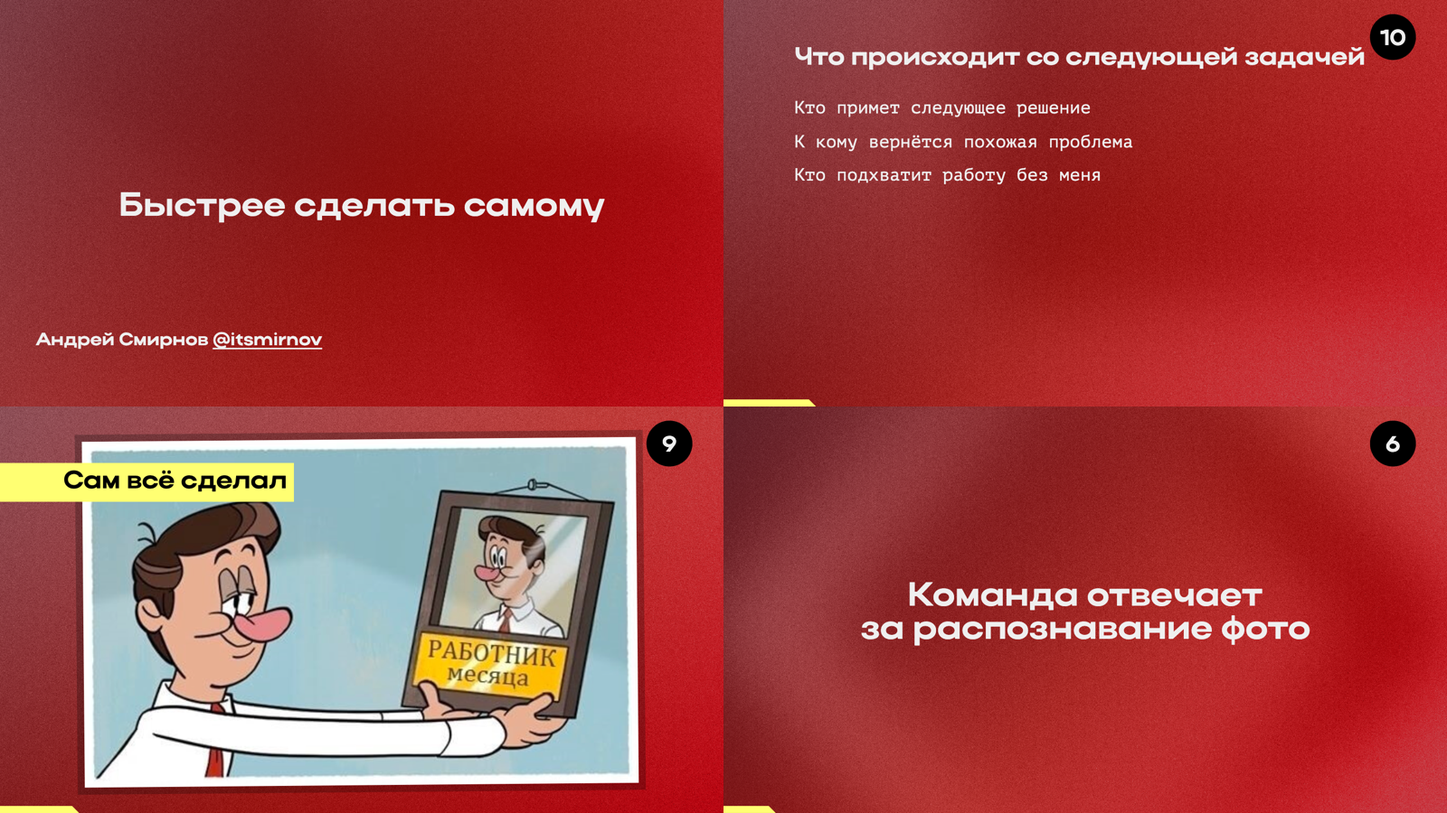
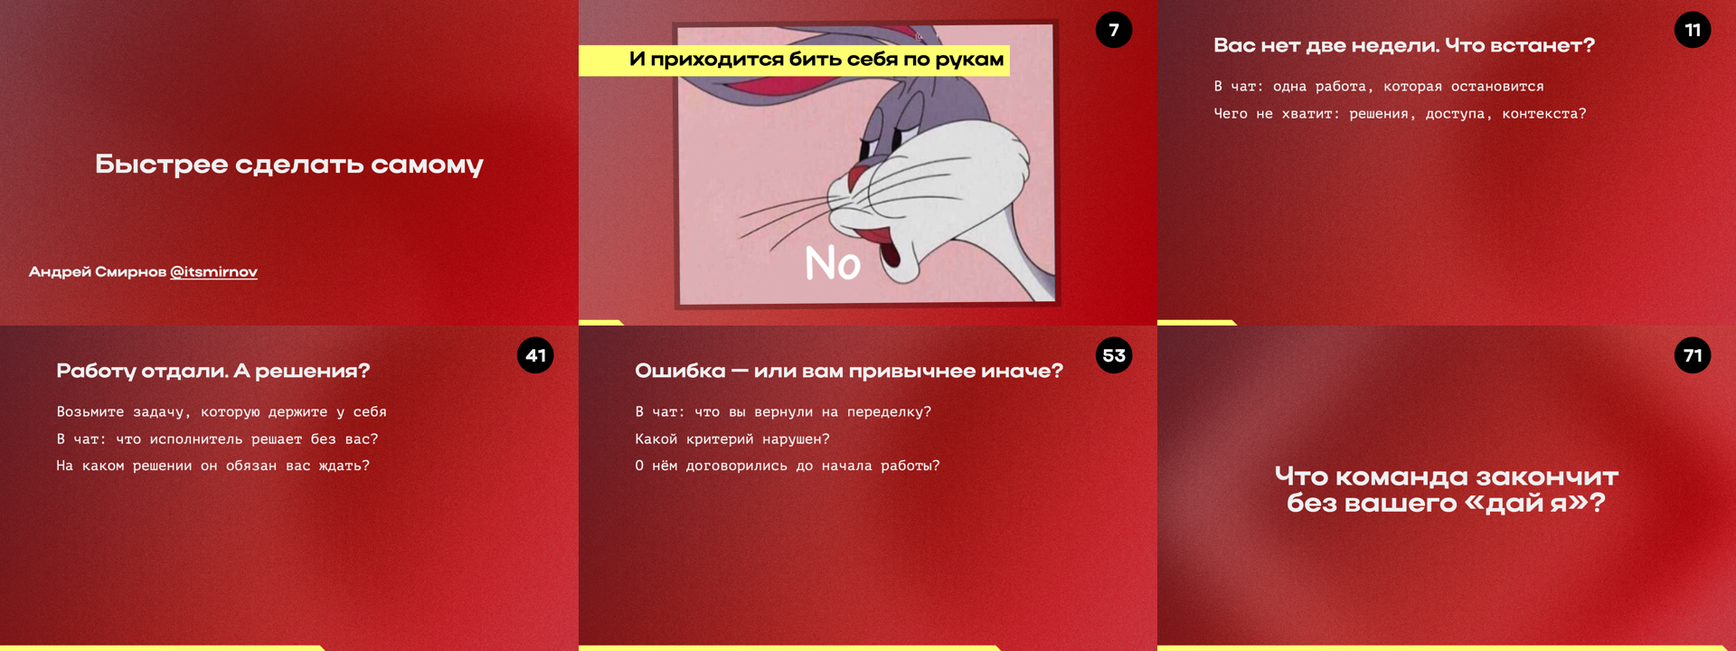
feat: усилить доклад и добавить работу с чатом

diff --git a/index.html b/index.html
@@ -1,5 +1,5 @@
-<!doctype html><html lang="ru"><head><meta charset="utf-8"><meta name="viewport" content="width=device-width, initial-scale=1"><title>Быстрее сделать самому · Андрей Смирнов</title><meta name="author" content="Андрей Смирнов"><meta name="description" content="Доклад Андрея Смирнова о делегировании, самостоятельности команды, ранней проверке и приёмке результата. Стратоплан, 2026."><link rel="canonical" href="https://sandark7.github.io/BCM26/"><link rel="stylesheet" href="shower/themes/ribbon/styles/styles.css"><link rel="stylesheet" href="theme.css"><link rel="stylesheet" href="slides.css"><link rel="stylesheet" href="delegation.css"></head><body class="shower list"><header class="caption"><h1>Быстрее сделать самому</h1><p>Андрей Смирнов · Стратоплан · 40 минут<br>Нажми на слайд, чтобы начать. → / пробел — следующий шаг; ← — назад; Esc — обзор.</p></header><section id="cover" class="slide label-header clear bgt" data-layout="shout" data-seconds="20" aria-label="Быстрее сделать самому"><h2 class="shout shrink">Быстрее сделать самому</h2><p class="end-link" style="left:5%;bottom:8%">Андрей Смирнов <a href="https://t.me/itsmirnov">@itsmirnov</a></p></section>
-<section id="about" class="slide label-header rbn bgi" data-layout="image" data-seconds="25" aria-label="Кто я?"><h2>Кто я?</h2>
+<!doctype html><html lang="ru"><head><meta charset="utf-8"><meta name="viewport" content="width=device-width, initial-scale=1"><title>Быстрее сделать самому · Андрей Смирнов</title><meta name="author" content="Андрей Смирнов"><meta name="description" content="Доклад Андрея Смирнова о делегировании, самостоятельности команды, ранней проверке и приёмке результата. Стратоплан, 2026."><link rel="canonical" href="https://sandark7.github.io/BCM26/"><link rel="stylesheet" href="shower/themes/ribbon/styles/styles.css"><link rel="stylesheet" href="theme.css"><link rel="stylesheet" href="slides.css"><link rel="stylesheet" href="delegation.css"></head><body class="shower list"><header class="caption"><h1>Быстрее сделать самому</h1><p>Андрей Смирнов · Стратоплан · 40 минут<br>Нажми на слайд, чтобы начать. → / пробел — следующий шаг; ← — назад; Esc — обзор.</p></header><section id="cover" class="slide label-header clear bgt" data-layout="shout" data-seconds="30" aria-label="Быстрее сделать самому"><h2 class="shout shrink">Быстрее сделать самому</h2><p class="end-link" style="left:5%;bottom:8%">Андрей Смирнов <a href="https://t.me/itsmirnov">@itsmirnov</a></p></section>
+<section id="about" class="slide label-header rbn bgi" data-layout="image" data-seconds="20" aria-label="Кто я?"><h2>Кто я?</h2>
     <img src="pictures/rebranding.png" class="cover h bordered">
     <object data="pictures/logo-magnit.svg" type="image/svg+xml" class="next"
       style="position: absolute;top: 120px;left: 635px;width: 90px; height: 90px; background-color: black;"></object>
@@ -10,67 +10,69 @@
 <section id="sometimes-faster" class="slide label-header rbn bgi" data-layout="image" data-seconds="30" aria-label="Быстрее?"><h2>Быстрее?</h2><img src="pictures/DE26__kachok.jpeg" class="cover h bordered" alt="Быстрее?"></section>
 <section id="ai-accelerator" class="slide label-header rbn bgi" data-layout="image" data-seconds="35" aria-label="А теперь у меня ещё и нейросеть"><h2>А теперь у меня ещё и нейросеть</h2><img src="pictures/PSC25__magic.gif" class="cover h bordered" alt="А теперь у меня ещё и нейросеть"></section>
 <section id="recognition-team" class="slide label-header rbn bgt" data-layout="shout" data-seconds="35" aria-label="Команда отвечает за распознавание фото"><h2 class="shout shrink">Команда отвечает<br>за распознавание фото</h2></section>
-<section id="hands-off" class="slide label-header rbn bgi" data-layout="image" data-seconds="35" aria-label="И приходится бить себя по рукам"><h2>И приходится бить себя по рукам</h2><img src="pictures/SM25__no-2.jpeg" class="cover h bordered" alt="И приходится бить себя по рукам"></section>
-<section id="correction-window" class="slide label-header rbn bgt" data-layout="shout" data-seconds="35" aria-label="Поправить ещё успеем"><h2 class="shout shrink">Поправить ещё успеем</h2></section>
+<section id="hands-off" class="slide label-header rbn bgi" data-layout="image" data-seconds="30" aria-label="И приходится бить себя по рукам"><h2>И приходится бить себя по рукам</h2><img src="pictures/SM25__no-2.jpeg" class="cover h bordered" alt="И приходится бить себя по рукам"></section>
+<section id="correction-window" class="slide label-header rbn bgt" data-layout="shout" data-seconds="35" aria-label="Если ещё можно исправить, зачем забирать?"><h2 class="shout shrink">Если ещё можно исправить,<br>зачем забирать?</h2></section>
 <section id="long-game-meme" class="slide label-header rbn bgi" data-layout="image" data-seconds="8" aria-label="Сам всё сделал"><h2>Сам всё сделал</h2><img src="pictures/GMS26__month.jpg" class="cover h bordered" alt="Сам всё сделал"></section>
-<section id="long-game" class="slide label-header rbn bg bgl" data-layout="list" data-seconds="32" aria-label="Что происходит со следующей задачей"><h2>Что происходит со следующей задачей</h2><ul class="nosign"><li>Кто примет следующее решение</li><li class="next">К кому вернётся похожая проблема</li><li class="next">Кто подхватит работу без меня</li></ul></section>
+<section id="long-game" class="slide label-header rbn bg bgl" data-layout="list" data-seconds="22" aria-label="Закрыли задачу. Всё снова на вас"><h2>Закрыли задачу. Всё снова на вас</h2><ul class="nosign"><li>Следующее решение снова за вами</li><li class="next">Похожая проблема снова у вас</li><li class="next">Заменить вас по-прежнему некому</li></ul></section>
+<section id="absence-check" class="slide label-header rbn bg bgl" data-layout="list" data-seconds="90" aria-label="Вас нет две недели. Что встанет?"><h2>Вас нет две недели. Что встанет?</h2><ul class="nosign"><li>В чат: одна работа, которая остановится</li><li class="next">Чего не хватит: решения, доступа, контекста?</li></ul></section>
 <section id="task-start" class="slide label-header rbn bgi" data-layout="image" data-seconds="25" aria-label="Что мы вообще делаем?"><h2>Что мы вообще делаем?</h2><img src="pictures/PSC25__pepe.jpeg" class="cover h bordered" alt="Что мы вообще делаем?"></section>
 <section id="label" class="slide label-header rbn bgi" data-layout="image" data-seconds="35" aria-label="Нужно сравнить две картинки"><h2>Нужно сравнить две картинки</h2><img src="pictures/label-milk-artwork.png" class="cover w bordered" alt="Нужно сравнить две картинки"></section>
 <section id="two-requests" class="slide label-header rbn bg bgl" data-layout="list" data-seconds="40" aria-label="За одним запросом оказались две задачи"><h2>За одним запросом оказались две задачи</h2><ul class="nosign"><li>Изменения между дизайном и цветопробой</li><li class="next">Соответствие декларации и документам</li></ul></section>
 <section id="ask-for-artifact" class="slide label-header rbn bgi" data-layout="image" data-seconds="30" aria-label="Ой"><h2>Ой</h2><img src="pictures/GMS26__wrong.jpeg" class="cover h bordered" alt="Ой"></section>
 <section id="service-zones" class="slide label-header rbn bg bgl" data-layout="list" data-seconds="40" aria-label="Какие отличия вообще имеют значение"><h2>Какие отличия вообще имеют значение</h2><ul class="nosign"><li>Текст в потребительской части этикетки</li><li class="next">Добавленные, удалённые и изменённые фрагменты</li><li class="next">Служебные зоны за пределами сравнения</li></ul></section>
-<section id="expected-result" class="slide label-header rbn bg bgl" data-layout="list" data-seconds="45" aria-label="Вариант договорённости о результате"><h2>Вариант договорённости о результате</h2><ul class="nosign"><li>Список расхождений по одному комплекту</li><li class="next">Место в исходнике для каждого замечания</li><li class="next">Сомнения вынесены на ручную проверку</li><li class="next">Критичность оценивает менеджер</li></ul></section>
-<section id="why-context" class="slide label-header rbn bgt" data-layout="shout" data-seconds="35" aria-label="Зачем это нужно следующему человеку"><h2 class="shout shrink">Зачем это нужно<br>следующему человеку</h2></section>
-<section id="repeat-back" class="slide label-header rbn bg bgl" data-layout="list" data-seconds="40" aria-label="Как проверить общее понимание"><h2>Как проверить общее понимание</h2><ul class="nosign"><li>С чего ты начнёшь</li><li class="next">Что покажешь первым</li><li class="next">Что решишь без меня</li><li class="next">Где тебе понадобится помощь</li></ul></section>
-<section id="deadline" class="slide label-header rbn bg bgl" data-layout="list" data-seconds="35" aria-label="Дедлайн и время на исправления"><h2>Дедлайн и время на исправления</h2><ul class="nosign"><li>Когда результат нужен получателю</li><li class="next">Когда увидим первую проверяемую версию</li><li class="next">Что ещё успеем изменить после неё</li></ul></section>
+<section id="expected-result" class="slide label-header rbn bg bgl" data-layout="list" data-seconds="30" aria-label="Что примете без «дай я»?"><h2>Что примете без «дай я»?</h2><ul class="nosign"><li>Список расхождений по одному комплекту</li><li class="next">Место в исходнике для каждого замечания</li><li class="next">Сомнения вынесены на ручную проверку</li><li class="next">Критичность оценивает менеджер</li></ul></section>
+<section id="why-context" class="slide label-header rbn bgt" data-layout="shout" data-seconds="45" aria-label="Без контекста каждый поворот ведёт к вам"><h2 class="shout shrink">Без контекста каждый<br>поворот ведёт к вам</h2></section>
+<section id="repeat-back" class="slide label-header rbn bg bgl" data-layout="list" data-seconds="30" aria-label="«Всё понятно» ничего не проверяет"><h2>«Всё понятно» ничего не проверяет</h2><ul class="nosign"><li>С чего ты начнёшь</li><li class="next">Что покажешь первым</li><li class="next">Что решишь без меня</li><li class="next">Где тебе понадобится помощь</li></ul></section>
+<section id="deadline" class="slide label-header rbn bg bgl" data-layout="list" data-seconds="45" aria-label="Впервые посмотрели в дедлайн?"><h2>Впервые посмотрели в дедлайн?</h2><ul class="nosign"><li>Когда результат нужен получателю</li><li class="next">Когда увидим первую проверяемую версию</li><li class="next">Что ещё успеем изменить после неё</li></ul></section>
 <section id="problem-owner" class="slide label-header rbn bgi" data-layout="image" data-seconds="30" aria-label="Кто?"><h2>Кто?</h2><img src="pictures/SM25__boss.webp" class="cover h bordered" alt="Кто?"></section>
-<section id="task-problem" class="slide label-header rbn bg bgl" data-layout="list" data-seconds="40" aria-label="Разная ширина поручения"><h2>Разная ширина поручения</h2><ul class="nosign"><li>Сравнить заданные файлы</li><li class="next">Организовать проверку комплекта</li><li class="next">Самостоятельно разбирать типовые отклонения</li></ul></section>
-<section id="team-owner" class="slide label-header rbn bgt" data-layout="shout" data-seconds="35" aria-label="Подпроект остаётся у команды"><h2 class="shout shrink">Подпроект остаётся<br>у команды</h2></section>
+<section id="task-problem" class="slide label-header rbn bg bgl" data-layout="list" data-seconds="30" aria-label="Исполнение отдали. А проблему?"><h2>Исполнение отдали. А проблему?</h2><ul class="nosign"><li>Сравнить заданные файлы</li><li class="next">Организовать проверку комплекта</li><li class="next">Самостоятельно разбирать типовые отклонения</li></ul></section>
+<section id="team-owner" class="slide label-header rbn bgt" data-layout="shout" data-seconds="30" aria-label="Подпроект остаётся у команды"><h2 class="shout shrink">Подпроект остаётся<br>у команды</h2></section>
 <section id="boundaries" class="slide label-header rbn bg bgl" data-layout="list" data-seconds="45" aria-label="О чём договориться на берегу"><h2>О чём договориться на берегу</h2><ul class="nosign"><li>Что можно решить самостоятельно</li><li class="next">О чём достаточно сообщить</li><li class="next">Что нужно согласовать до действия</li><li class="next">При каких условиях работа останавливается</li></ul></section>
 <section id="resources-meme" class="slide label-header rbn bgi" data-layout="image" data-seconds="11" aria-label="Всё под рукой"><h2>Всё под рукой</h2><img src="pictures/DE26__flexible.jpeg" class="cover h bordered" alt="Всё под рукой"></section>
-<section id="resources" class="slide label-header rbn bg bgl" data-layout="list" data-seconds="24" aria-label="Самостоятельности нужны возможности"><h2>Самостоятельности нужны возможности</h2><ul class="nosign"><li>Доступ к исходным материалам</li><li class="next">Прямой контакт с нужными людьми</li><li class="next">Время и другие необходимые ресурсы</li></ul></section>
-<section id="calibrate" class="slide label-header rbn bg bgl" data-layout="list" data-seconds="40" aria-label="Одна задача, разная самостоятельность"><h2>Одна задача, разная самостоятельность</h2><ul class="nosign"><li>Знакома ли человеку эта работа</li><li class="next">Насколько рано заметна ошибка</li><li class="next">Что будет стоить её исправить</li></ul></section>
-<section id="old-habit" class="slide label-header rbn bgi" data-layout="image" data-seconds="40" aria-label="Кто делает?"><h2>Кто делает?</h2><img src="pictures/SM25__deleg.jpeg" class="cover h bordered" alt="Кто делает?"></section>
+<section id="resources" class="slide label-header rbn bg bgl" data-layout="list" data-seconds="39" aria-label="Отвечать должен он. А доступ у вас"><h2>Отвечать должен он. А доступ у вас</h2><ul class="nosign"><li>Доступ к исходным материалам</li><li class="next">Прямой контакт с нужными людьми</li><li class="next">Время и другие необходимые ресурсы</li></ul></section>
+<section id="calibrate" class="slide label-header rbn bg bgl" data-layout="list" data-seconds="30" aria-label="Одна задача, разная самостоятельность"><h2>Одна задача, разная самостоятельность</h2><ul class="nosign"><li>Знакома ли человеку эта работа</li><li class="next">Насколько рано заметна ошибка</li><li class="next">Что будет стоить её исправить</li></ul></section>
+<section id="old-habit" class="slide label-header rbn bgi" data-layout="image" data-seconds="30" aria-label="Кто делает?"><h2>Кто делает?</h2><img src="pictures/SM25__deleg.jpeg" class="cover h bordered" alt="Кто делает?"></section>
 <section id="small-start" class="slide label-header rbn bgi" data-layout="image" data-seconds="25" aria-label="Одна обратимая задача для начала"><h2>Одна обратимая задача для начала</h2><img src="pictures/PSC25__gocat.jpg" class="cover h bordered" alt="Одна обратимая задача для начала"></section>
 <section id="control" class="slide label-header rbn bgi" data-layout="image" data-seconds="25" aria-label="Куда мы движемся?"><h2>Куда мы движемся?</h2><img src="pictures/PSC25__research.jpeg" class="cover h bordered" alt="Куда мы движемся?"></section>
-<section id="first-artifact" class="slide label-header rbn bg bgl" data-layout="list" data-seconds="45" aria-label="Что показать на первой проверке"><h2>Что показать на первой проверке</h2><ul class="nosign"><li>Один реальный комплект файлов</li><li class="next">Результат, который сможет проверить менеджер</li><li class="next">Открытые вопросы и следующий шаг</li></ul></section>
-<section id="when-check" class="slide label-header rbn bg bgl" data-layout="list" data-seconds="40" aria-label="Проверка перед дорогим поворотом"><h2>Проверка перед дорогим поворотом</h2><ul class="nosign"><li>Что уже можно проверить</li><li class="next">Какое решение принимаем после просмотра</li><li class="next">Что пока ещё можно изменить</li></ul></section>
+<section id="first-artifact" class="slide label-header rbn bg bgl" data-layout="list" data-seconds="45" aria-label="Покажите работу, а не уверенность"><h2>Покажите работу, а не уверенность</h2><ul class="nosign"><li>Один реальный комплект файлов</li><li class="next">Результат, который сможет проверить менеджер</li><li class="next">Открытые вопросы и следующий шаг</li></ul></section>
+<section id="when-check" class="slide label-header rbn bg bgl" data-layout="list" data-seconds="30" aria-label="Проверка перед дорогим поворотом"><h2>Проверка перед дорогим поворотом</h2><ul class="nosign"><li>Что уже можно проверить</li><li class="next">Какое решение принимаем после просмотра</li><li class="next">Что пока ещё можно изменить</li></ul></section>
 <section id="percent" class="slide label-header rbn bgi" data-layout="image" data-seconds="25" aria-label="Готово примерно на 80%"><h2>Готово примерно на 80%</h2><img src="pictures/PM25__notsure.jpg" class="cover h bordered" alt="Готово примерно на 80%"></section>
-<section id="signal" class="slide label-header rbn bgi" data-layout="image" data-seconds="35" aria-label="Какой сигнал меняет наше решение"><h2>Какой сигнал меняет наше решение</h2><img src="pictures/DE26__lakmus.jpeg" class="cover w bordered" alt="Какой сигнал меняет наше решение"></section>
-<section id="frov-weight" class="slide label-header rbn bgi" data-layout="image" data-seconds="45" aria-label="Килограммов чего?"><h2>Килограммов чего?</h2><img src="pictures/gross.png" class="cover h bordered" alt="Килограммов чего?"></section>
-<section id="fact-and-decision" class="slide label-header rbn bg bgl" data-layout="list" data-seconds="35" aria-label="Что известно и что ещё предстоит решить"><h2>Что известно и что ещё предстоит решить</h2><ul class="nosign"><li>Что проверено на реальном примере</li><li class="next">Что пока остаётся предположением</li><li class="next">Каких данных не хватает</li><li class="next">Как это влияет на следующий шаг</li></ul></section>
-<section id="missing-data" class="slide label-header rbn bg bgl" data-layout="list" data-seconds="40" aria-label="Когда нужно прийти за помощью"><h2>Когда нужно прийти за помощью</h2><ul class="nosign"><li>Без внешнего решения дальше не двигаемся</li><li class="next">Изменились срок или согласованный объём</li><li class="next">Обнаружился риск за пределами договорённости</li></ul></section>
+<section id="signal" class="slide label-header rbn bgi" data-layout="image" data-seconds="30" aria-label="Какой сигнал меняет наше решение"><h2>Какой сигнал меняет наше решение</h2><img src="pictures/DE26__lakmus.jpeg" class="cover w bordered" alt="Какой сигнал меняет наше решение"></section>
+<section id="frov-weight" class="slide label-header rbn bgi" data-layout="image" data-seconds="35" aria-label="Килограммов чего?"><h2>Килограммов чего?</h2><img src="pictures/gross.png" class="cover h bordered" alt="Килограммов чего?"></section>
+<section id="fact-and-decision" class="slide label-header rbn bg bgl" data-layout="list" data-seconds="50" aria-label="Что известно и что ещё предстоит решить"><h2>Что известно и что ещё предстоит решить</h2><ul class="nosign"><li>Что проверено на реальном примере</li><li class="next">Что пока остаётся предположением</li><li class="next">Каких данных не хватает</li><li class="next">Как это влияет на следующий шаг</li></ul></section>
+<section id="missing-data" class="slide label-header rbn bg bgl" data-layout="list" data-seconds="30" aria-label="Когда нужно прийти за помощью"><h2>Когда нужно прийти за помощью</h2><ul class="nosign"><li>Без внешнего решения дальше не двигаемся</li><li class="next">Изменились срок или согласованный объём</li><li class="next">Обнаружился риск за пределами договорённости</li></ul></section>
 <section id="help-request-meme" class="slide label-header rbn bgi" data-layout="image" data-seconds="8" aria-label="Нужна помощь"><h2>Нужна помощь</h2><img src="pictures/PSC25__cat.jpeg" class="cover h bordered" alt="Нужна помощь"></section>
-<section id="help-request" class="slide label-header rbn bg bgl" data-layout="list" data-seconds="27" aria-label="С чем приходить за помощью"><h2>С чем приходить за помощью</h2><ul class="nosign"><li>Что произошло и что теперь под риском</li><li class="next">Какие варианты ты рассматриваешь</li><li class="next">Какое решение или помощь нужны от меня</li></ul></section>
-<section id="written-agreement-meme" class="slide label-header rbn bgi" data-layout="image" data-seconds="9" aria-label="Одно и то же"><h2>Одно и то же</h2><img src="pictures/PSC25__same.jpg" class="cover h bordered" alt="Одно и то же"></section>
-<section id="written-agreement" class="slide label-header rbn bg bgl" data-layout="list" data-seconds="31" aria-label="Короткая запись вместо второй памяти"><h2>Короткая запись вместо второй памяти</h2><ul class="nosign"><li>Результат и границы</li><li class="next">Самостоятельные решения</li><li class="next">Первая проверка</li><li class="next">Сигнал для раннего разговора</li></ul></section>
+<section id="help-request" class="slide label-header rbn bg bgl" data-layout="list" data-seconds="42" aria-label="С чем приходить за помощью"><h2>С чем приходить за помощью</h2><ul class="nosign"><li>Что произошло и что теперь под риском</li><li class="next">Какие варианты ты рассматриваешь</li><li class="next">Какое решение или помощь нужны от меня</li></ul></section>
+<section id="written-agreement-meme" class="slide label-header rbn bgi" data-layout="image" data-seconds="8" aria-label="Опять к вам"><h2>Опять к вам</h2><img src="pictures/PSC25__same.jpg" class="cover h bordered" alt="Опять к вам"></section>
+<section id="written-agreement" class="slide label-header rbn bg bgl" data-layout="list" data-seconds="87" aria-label="Работу отдали. А решения?"><h2>Работу отдали. А решения?</h2><ul class="nosign"><li>Возьмите задачу, которую держите у себя</li><li class="next">В чат: что исполнитель решает без вас?</li><li class="next">На каком решении он обязан вас ждать?</li></ul></section>
 <section id="team-check" class="slide label-header rbn bgt" data-layout="shout" data-seconds="30" aria-label="Команда делает, я проверяю результат"><h2 class="shout shrink">Команда делает,<br>я проверяю результат</h2></section>
 <section id="off-course" class="slide label-header rbn bgi" data-layout="image" data-seconds="35" aria-label="Не туда?"><h2>Не туда?</h2><img src="pictures/GMS26__change.jpeg" class="cover h bordered" alt="Не туда?"></section>
 <section id="first-reaction" class="slide label-header rbn bgi" data-layout="image" data-seconds="25" aria-label="Дайте я"><h2>Дайте я</h2><img src="pictures/PSC25__super.jpeg" class="cover h bordered" alt="Дайте я"></section>
-<section id="diagnose" class="slide label-header rbn bg bgl" data-layout="list" data-seconds="50" aria-label="Что именно разошлось с ожиданием"><h2>Что именно разошлось с ожиданием</h2><ul class="nosign"><li>Разное понимание результата</li><li class="next">Недостающие данные или доступ</li><li class="next">Внешняя зависимость</li><li class="next">Ошибка в выбранном способе</li></ul></section>
-<section id="options" class="slide label-header rbn bg bgl" data-layout="list" data-seconds="45" aria-label="У руководителя есть несколько ходов"><h2>У руководителя есть несколько ходов</h2><ul class="nosign"><li>Уточнить ожидание или ограничение</li><li class="next">Снять конкретное препятствие</li><li class="next">Помочь с трудным фрагментом</li><li class="next">Пересогласовать объём и следующий шаг</li></ul></section>
-<section id="help" class="slide label-header rbn bgi" data-layout="image" data-seconds="40" aria-label="Помогли. Кто продолжает?"><h2>Помогли. Кто продолжает?</h2><img src="pictures/SM25__explain.jpg" class="cover h bordered" alt="Помогли. Кто продолжает?"></section>
+<section id="diagnose" class="slide label-header rbn bg bgl" data-layout="list" data-seconds="35" aria-label="Что именно разошлось с ожиданием"><h2>Что именно разошлось с ожиданием</h2><ul class="nosign"><li>Разное понимание результата</li><li class="next">Недостающие данные или доступ</li><li class="next">Внешняя зависимость</li><li class="next">Ошибка в выбранном способе</li></ul></section>
+<section id="options" class="slide label-header rbn bg bgl" data-layout="list" data-seconds="45" aria-label="Вы можете помочь и не забрать всё"><h2>Вы можете помочь и не забрать всё</h2><ul class="nosign"><li>Уточнить ожидание или ограничение</li><li class="next">Снять конкретное препятствие</li><li class="next">Помочь с трудным фрагментом</li><li class="next">Пересогласовать объём и следующий шаг</li></ul></section>
+<section id="help" class="slide label-header rbn bgi" data-layout="image" data-seconds="35" aria-label="Помогли. Кто продолжает?"><h2>Помогли. Кто продолжает?</h2><img src="pictures/SM25__explain.jpg" class="cover h bordered" alt="Помогли. Кто продолжает?"></section>
 <section id="risk" class="slide label-header rbn bg bgl" data-layout="list" data-seconds="45" aria-label="Сколько места осталось для исправлений"><h2>Сколько места осталось для исправлений</h2><ul class="nosign"><li>Время до внешнего обязательства</li><li class="next">Обратимость следующего действия</li><li class="next">Цена ошибки для других людей</li><li class="next">Возможность заметить отклонение</li></ul></section>
-<section id="urgent" class="slide label-header rbn bgi" data-layout="image" data-seconds="35" aria-label="Иногда приходится спасать"><h2>Иногда приходится спасать</h2><img src="pictures/PSC25__chaos.gif" class="cover h bordered" alt="Иногда приходится спасать"></section>
-<section id="after-urgent" class="slide label-header rbn bg bgl" data-layout="list" data-seconds="35" aria-label="Что обсудить после аврала"><h2>Что обсудить после аврала</h2><ul class="nosign"><li>Какой сигнал мы пропустили</li><li class="next">Что нужно изменить в договорённости</li><li class="next">Кому остаётся дальнейшая работа</li></ul></section>
+<section id="urgent" class="slide label-header rbn bgi" data-layout="image" data-seconds="30" aria-label="Иногда приходится спасать"><h2>Иногда приходится спасать</h2><img src="pictures/PSC25__chaos.gif" class="cover h bordered" alt="Иногда приходится спасать"></section>
+<section id="after-urgent" class="slide label-header rbn bg bgl" data-layout="list" data-seconds="35" aria-label="После аврала всё снова придёт к вам?"><h2>После аврала всё снова придёт к вам?</h2><ul class="nosign"><li>Какой сигнал мы пропустили</li><li class="next">Что нужно изменить в договорённости</li><li class="next">Кому остаётся дальнейшая работа</li></ul></section>
 <section id="acceptance" class="slide label-header rbn bgi" data-layout="image" data-seconds="30" aria-label="Готово?"><h2>Готово?</h2><img src="pictures/DE26__bananameme.jpeg" class="cover h bordered" alt="Готово?"></section>
 <section id="taste" class="slide label-header rbn bgi" data-layout="image" data-seconds="35" aria-label="Я бы сделал по-другому"><h2>Я бы сделал по-другому</h2><img src="pictures/GMS26__open-minded.jpeg" class="cover h bordered" alt="Я бы сделал по-другому"></section>
-<section id="criteria" class="slide label-header rbn bg bgl" data-layout="list" data-seconds="45" aria-label="Что проверяем на приёмке"><h2>Что проверяем на приёмке</h2><ul class="nosign"><li>Можно проверить найденное отличие</li><li class="next">Понятны сомнения и ограничения</li><li class="next">Результат пригоден для следующего шага</li><li class="next">Выполнены исходные договорённости</li></ul></section>
+<section id="taste-check" class="slide label-header rbn bg bgl" data-layout="list" data-seconds="80" aria-label="Ошибка — или вам привычнее иначе?"><h2>Ошибка — или вам привычнее иначе?</h2><ul class="nosign"><li>В чат: что вы вернули на переделку?</li><li class="next">Какой критерий нарушен?</li><li class="next">О нём договорились до начала работы?</li></ul></section>
+<section id="criteria" class="slide label-header rbn bg bgl" data-layout="list" data-seconds="35" aria-label="Что проверяем на приёмке"><h2>Что проверяем на приёмке</h2><ul class="nosign"><li>Можно проверить найденное отличие</li><li class="next">Понятны сомнения и ограничения</li><li class="next">Результат пригоден для следующего шага</li><li class="next">Выполнены исходные договорённости</li></ul></section>
 <section id="tasting" class="slide label-header rbn bg bgl" data-layout="list" data-seconds="45" aria-label="Файл открылся. А работа закончена?"><h2>Файл открылся. А работа закончена?</h2><ul class="nosign"><li>Понятно, к какому образцу относится строка</li><li class="next">Оценки и фотографии связаны с образцом</li><li class="next">Экспертное заключение остаётся за человеком</li></ul></section>
 <section id="user-path" class="slide label-header rbn bgi" data-layout="image" data-seconds="40" aria-label="Проверим в деле"><h2>Проверим в деле</h2><img src="pictures/PM25__horse.jpg" class="cover h bordered" alt="Проверим в деле"></section>
 <section id="new-requirements-meme" class="slide label-header rbn bgi" data-layout="image" data-seconds="8" aria-label="А ещё что?"><h2>А ещё что?</h2><img src="pictures/PSC25__whatelse.jpg" class="cover h bordered" alt="А ещё что?"></section>
-<section id="new-requirements" class="slide label-header rbn bg bgl" data-layout="list" data-seconds="32" aria-label="Что договорились и что придумали сейчас"><h2>Что договорились и что придумали сейчас</h2><ul class="nosign"><li>Ошибка относительно договорённости</li><li class="next">Новый запрос или изменившееся условие</li><li class="next">Личное предпочтение руководителя</li></ul></section>
+<section id="new-requirements" class="slide label-header rbn bg bgl" data-layout="list" data-seconds="32" aria-label="Финиш снова отодвинули?"><h2>Финиш снова отодвинули?</h2><ul class="nosign"><li>Ошибка относительно договорённости</li><li class="next">Новый запрос или изменившееся условие</li><li class="next">Личное предпочтение руководителя</li></ul></section>
 <section id="return-to-owner" class="slide label-header rbn bgi" data-layout="image" data-seconds="35" aria-label="На правку"><h2>На правку</h2><img src="pictures/SM25__no.jpg" class="cover h bordered" alt="На правку"></section>
-<section id="approved" class="slide label-header rbn bgi" data-layout="image" data-seconds="35" aria-label="Приняли"><h2>Приняли</h2><img src="pictures/SM25__approved.jpeg" class="cover h bordered" alt="Приняли"></section>
-<section id="my-choice" class="slide label-header rbn bg bgl" data-layout="list" data-seconds="40" aria-label="Что я удерживал в этом подпроекте"><h2>Что я удерживал в этом подпроекте</h2><ul class="nosign"><li>Подпроект ведёт команда</li><li class="next">Соблазн вмешаться вполне реальный</li><li class="next">Возможность закончить остаётся у команды</li><li class="next">Для проверки и корректировки ещё есть место</li></ul></section>
-<section id="manager-time" class="slide label-header rbn bgt" data-layout="shout" data-seconds="35" aria-label="Кому достанется следующая сложная задача"><h2 class="shout shrink">Кому достанется<br>следующая сложная задача</h2></section>
+<section id="approved" class="slide label-header rbn bgi" data-layout="image" data-seconds="45" aria-label="Приняли"><h2>Приняли</h2><img src="pictures/SM25__approved.jpeg" class="cover h bordered" alt="Приняли"></section>
+<section id="my-choice" class="slide label-header rbn bg bgl" data-layout="list" data-seconds="35" aria-label="Чего я не стал делать за команду"><h2>Чего я не стал делать за команду</h2><ul class="nosign"><li>Подпроект остаётся у команды</li><li class="next">Мне хочется вмешаться — я это замечаю</li><li class="next">Проверить и поправить ещё можно</li></ul></section>
+<section id="manager-time" class="slide label-header rbn bgt" data-layout="shout" data-seconds="35" aria-label="Кто займёт ваше место, если вас повысят?"><h2 class="shout shrink">Кто займёт ваше место,<br>если вас повысят?</h2></section>
 <section id="observe-meme" class="slide label-header rbn bgi" data-layout="image" data-seconds="8" aria-label="Успех?"><h2>Успех?</h2><img src="pictures/DE26__success.jpeg" class="cover h bordered" alt="Успех?"></section>
 <section id="observe" class="slide label-header rbn bg bgl" data-layout="list" data-seconds="27" aria-label="На что смотреть в следующих задачах"><h2>На что смотреть в следующих задачах</h2><ul class="nosign"><li>Решения, которые приняли без меня</li><li class="next">Препятствия, о которых узнали вовремя</li><li class="next">Работа, которую пришлось забрать себе</li></ul></section>
-<section id="one-task" class="slide label-header rbn bgi" data-layout="image" data-seconds="25" aria-label="Начнём с одной"><h2>Начнём с одной</h2><img src="pictures/PSC25__happy.png" class="cover h bordered" alt="Начнём с одной"></section>
-<section id="practice" class="slide label-header rbn bg bgl" data-layout="list" data-seconds="120" aria-label="Проверьте своё поручение"><h2>Проверьте своё поручение</h2><ul class="nosign"><li>Какой результат должен получить человек</li><li class="next">Какие решения остаются у исполнителя</li><li class="next">Что и когда увидим до финального срока</li><li class="next">Какой сигнал требует раннего разговора</li></ul></section>
-<section id="acceptance-question" class="slide label-header rbn bgi" data-layout="image" data-seconds="100" aria-label="Как принять?"><h2>Как принять?</h2><img src="pictures/PSC25__thinking.png" class="cover h bordered" alt="Как принять?"></section>
-<section id="five-questions" class="slide label-header rbn bg bgl" data-layout="list" data-seconds="45" aria-label="Пять вопросов перед следующим поручением"><h2>Пять вопросов перед следующим поручением</h2><ul class="nosign"><li>Что получаем</li><li class="next">Что решаешь сам</li><li class="next">Что покажешь раньше</li><li class="next">Когда зовёшь на помощь</li><li class="next">По чему принимаем</li></ul></section>
-<section id="next-conversation" class="slide label-header rbn bg bgl" data-layout="list" data-seconds="35" aria-label="Один разговор после доклада"><h2>Один разговор после доклада</h2><ul class="nosign"><li>Попросить владельца описать свой план</li><li class="next">Уточнить одну неясную договорённость</li><li class="next">Назначить проверку с запасом на правки</li></ul></section>
+<section id="one-task" class="slide label-header rbn bgi" data-layout="image" data-seconds="20" aria-label="Начнём с одной"><h2>Начнём с одной</h2><img src="pictures/PSC25__happy.png" class="cover h bordered" alt="Начнём с одной"></section>
+<section id="practice" class="slide label-header rbn bg bgl" data-layout="list" data-seconds="55" aria-label="Что измените в этой задаче завтра?"><h2>Что измените в этой задаче завтра?</h2><ul class="nosign"><li>Одно решение, которое отдаёте владельцу</li><li class="next">Первая проверка с запасом на исправления</li><li class="next">Сигнал, по которому помощь нужна раньше</li></ul></section>
+<section id="acceptance-question" class="slide label-header rbn bgi" data-layout="image" data-seconds="30" aria-label="Как принять?"><h2>Как принять?</h2><img src="pictures/PSC25__thinking.png" class="cover h bordered" alt="Как принять?"></section>
+<section id="five-questions" class="slide label-header rbn bg bgl" data-layout="list" data-seconds="30" aria-label="Пять вопросов перед следующим поручением"><h2>Пять вопросов перед следующим поручением</h2><ul class="nosign"><li>Что получаем</li><li class="next">Что решаешь сам</li><li class="next">Что покажешь раньше</li><li class="next">Когда зовёшь на помощь</li><li class="next">По чему принимаем</li></ul></section>
+<section id="next-conversation" class="slide label-header rbn bg bgl" data-layout="list" data-seconds="30" aria-label="С кем поговорите после доклада?"><h2>С кем поговорите после доклада?</h2><ul class="nosign"><li>Какую работу доведут без вашего «дай я»</li><li class="next">Кто принимает следующее решение</li><li class="next">Когда обсудите границы и первую проверку</li></ul></section>
 <section id="come-back" class="slide label-header rbn bgi" data-layout="image" data-seconds="30" aria-label="Сейчас я быстренько…"><h2>Сейчас я быстренько…</h2><img src="pictures/CF25__same.jpeg" class="cover h bordered" alt="Сейчас я быстренько…"></section>
-<section id="closing" class="slide label-header rbn bgt" data-layout="shout" data-seconds="25" aria-label="Пусть доделают сами. Поправить ещё успеем"><h2 class="shout shrink">Пусть доделают сами.<br>Поправить ещё успеем</h2></section>
+<section id="closing" class="slide label-header rbn bgt" data-layout="shout" data-seconds="30" aria-label="Что команда закончит без вашего «дай я»?"><h2 class="shout shrink">Что команда закончит<br>без вашего «дай я»?</h2></section>
 <section id="questions" class="slide label-header rbn bgi" data-layout="image" data-seconds="0" aria-label="Давайте вопросы"><h2>Давайте вопросы</h2><a href="https://t.me/itsmirnov" aria-label="Канал Андрея Смирнова"><img src="pictures/qrcode-tg.png" class="place c telegram-qr" alt="QR-код канала @itsmirnov"></a><p class="end-link telegram-link"><a href="https://t.me/itsmirnov">@itsmirnov</a></p></section><div class="progress"></div><script src="shower/shower.min.js"></script></body></html>

diff --git a/README.md b/README.md
@@ -4,7 +4,7 @@
 
 [Открыть презентацию](https://sandark7.github.io/BCM26/)
 
-70 слайдов с планом на 40 минут о том, как договориться о результате и самостоятельности, выбрать раннюю точку проверки и принять работу, сохраняя исполнение у команды. Сквозной пример — подпроект распознавания фотографий приёмки.
+72 слайда с планом на 40 минут о том, как привычка доделывать за команду сохраняет зависимость от руководителя и что изменить в постановке, контроле и приёмке. Три вопроса в чат встроены в рассказ, а в финале слушатель выбирает конкретную задачу и решение, которое передаст её владельцу. Сквозной пример — подпроект распознавания фотографий приёмки.
 
 Нажми на слайд, чтобы начать показ. Стрелка вправо или пробел открывает следующий шаг, стрелка влево возвращает назад, Esc открывает обзор.
 
